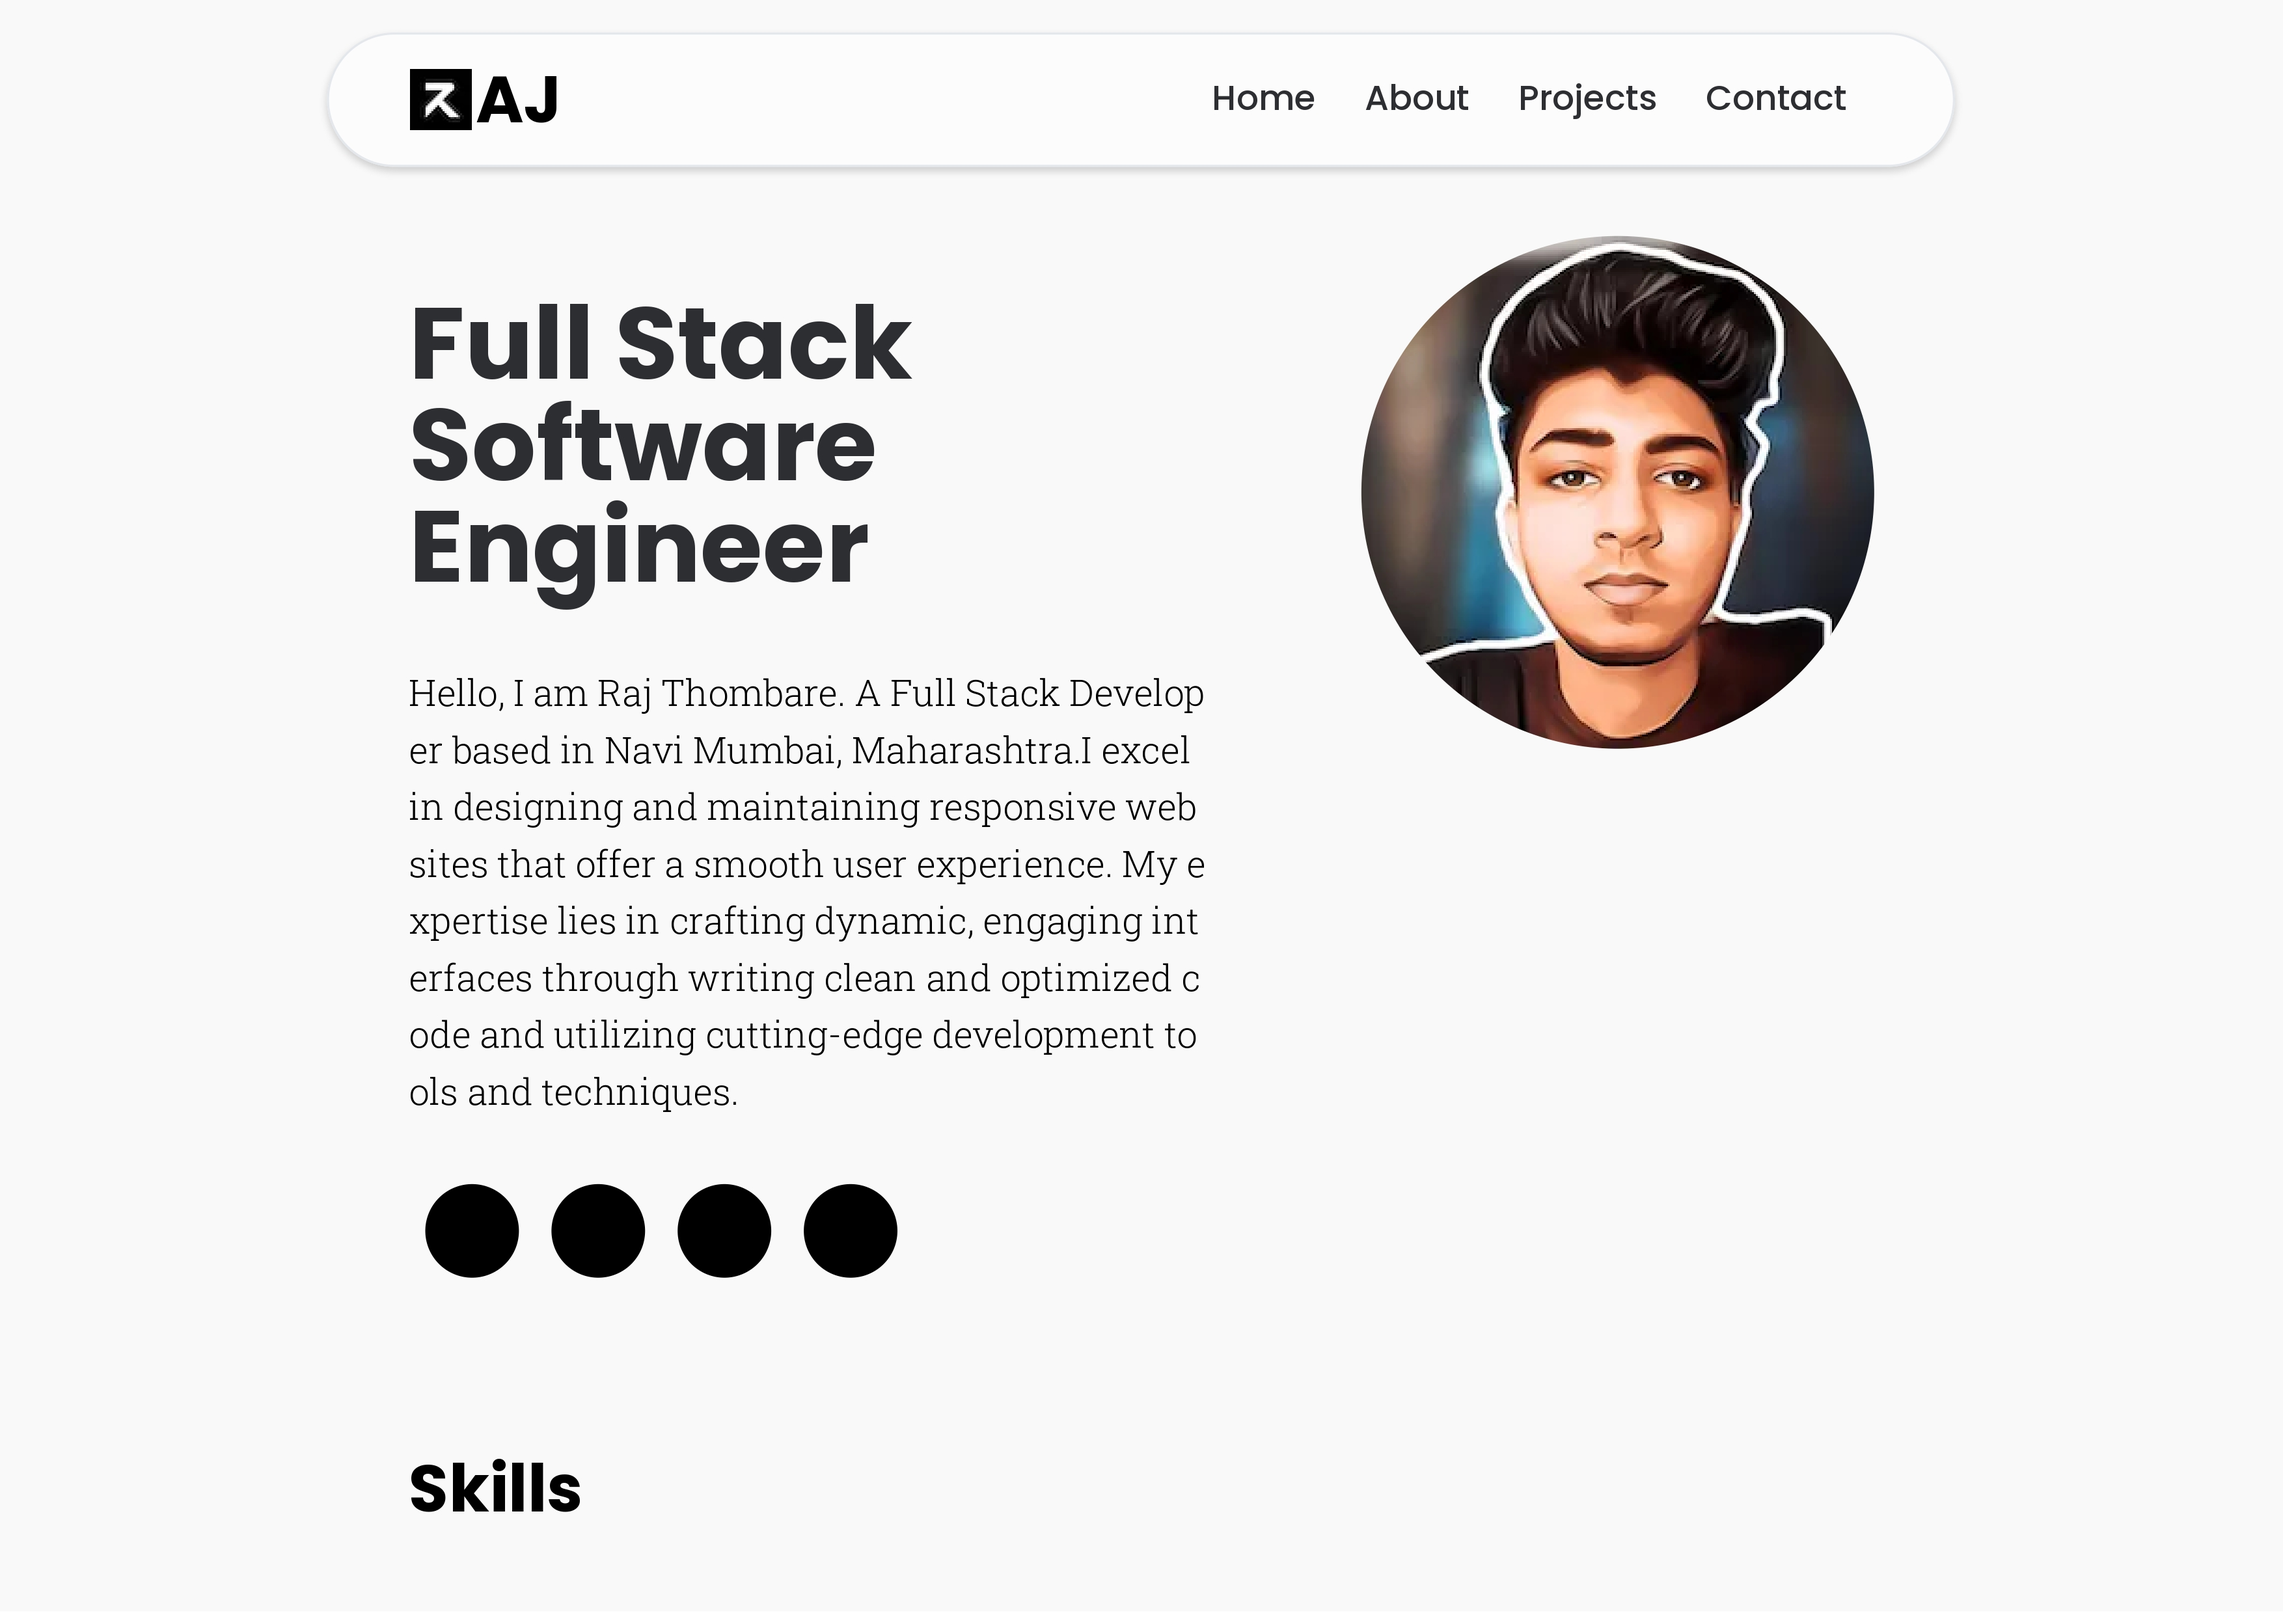
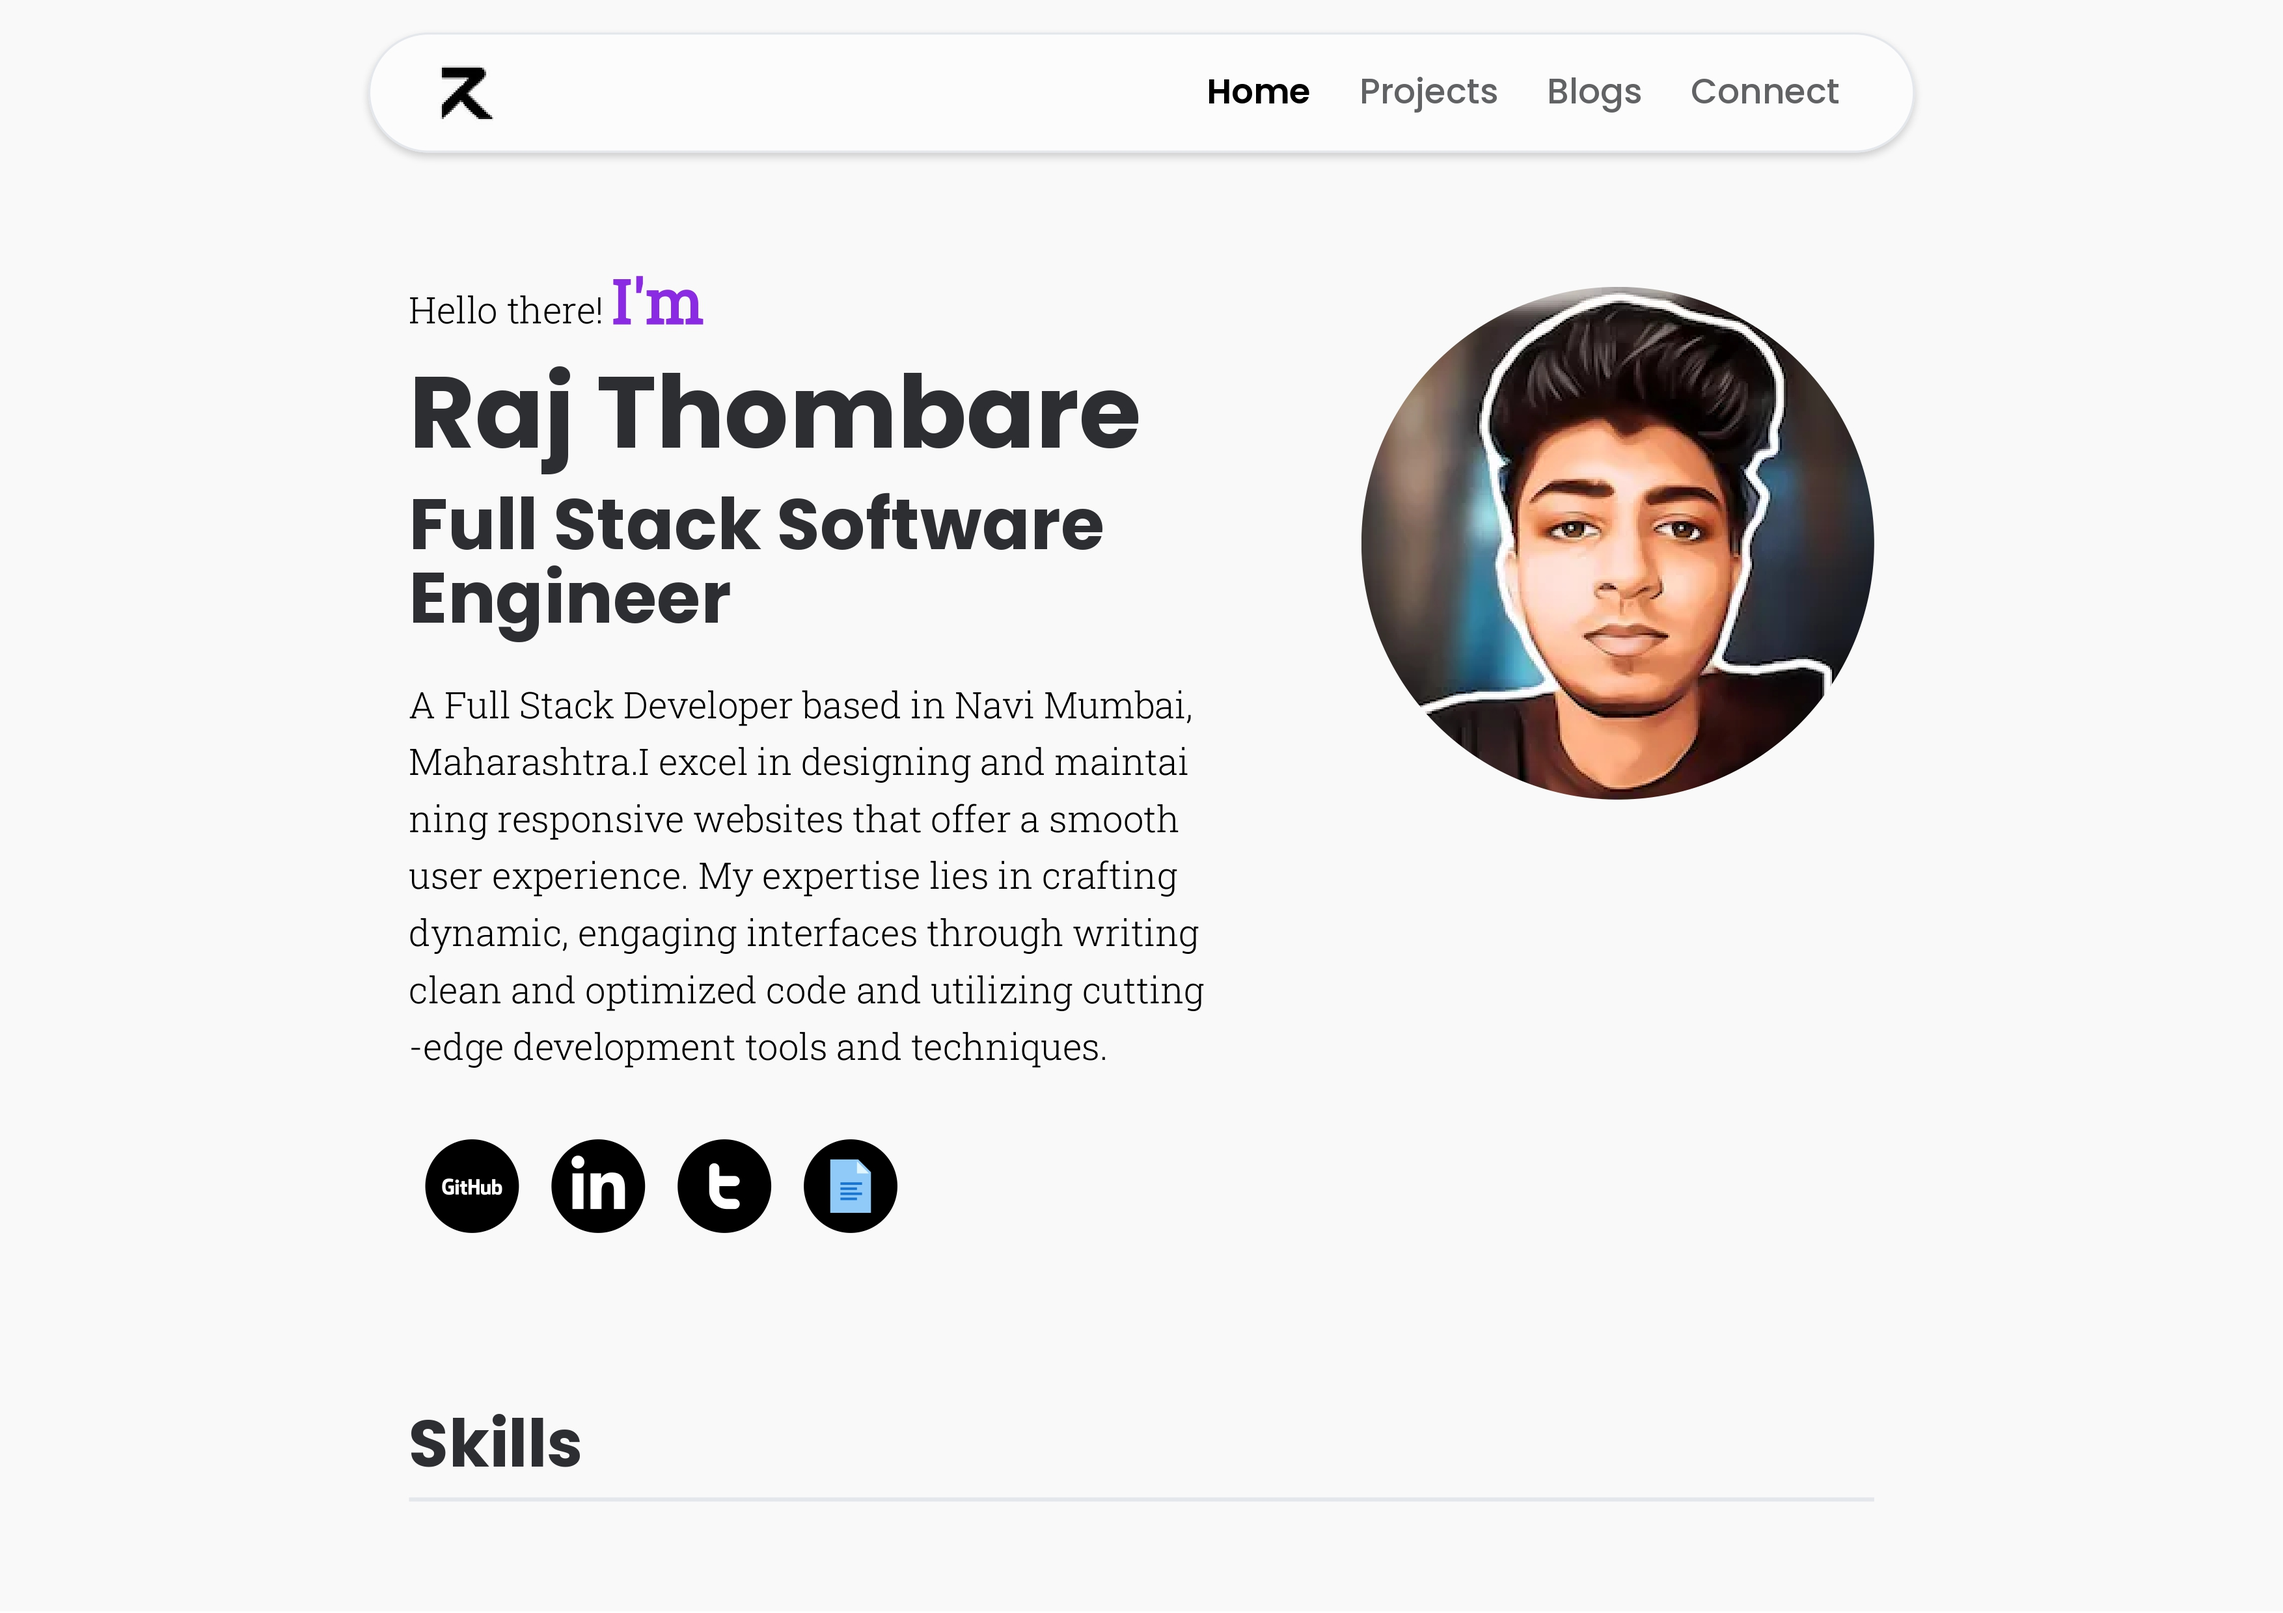
fix typos in hero

Changed region(s): [[0.1554, 0.1553, 0.5282, 0.8076], [0.1554, 0.0311, 0.8389, 0.497], [0.1554, 0.8697, 0.2796, 0.9629]]

diff --git a/components/Navbar.jsx b/components/Navbar.jsx
@@ -30,6 +30,14 @@ const Navbar = () => {
     {
       title: "Connect",
       link: "/#contact",
+    },
+    {
+      title: "Skills",
+      link: "/#skills",
+    },
+    {
+      title: "Education",
+      link: "/#education",
     }
   ];
 
@@ -47,7 +55,7 @@ const Navbar = () => {
           />
         </Link>
         <ul className="hidden md:flex">
-          {navLinks.map((nav)=>{
+          {navLinks.slice(0,4).map((nav)=>{
             return (
               <li key={nav.title}>
                 <Link href={nav.link} className={` ${

diff --git a/components/Hero.jsx b/components/Hero.jsx
@@ -37,7 +37,7 @@ const Hero = () => {
         <h1 className="mb-3 text-5xl md:text-[50px] font-bold mt-2 text-[#2d2e32]">
           Raj Thombare
         </h1>
-        <h2 className="mb-5 text-3xl md:text-[35px] font-bold mt-6 md:mt-2 text-[#2d2e32]">
+        <h2 className="mb-4 text-3xl md:text-[35px] font-bold mt-4 text-[#2d2e32]">
           Full Stack Software Engineer
         </h2>
         <p
